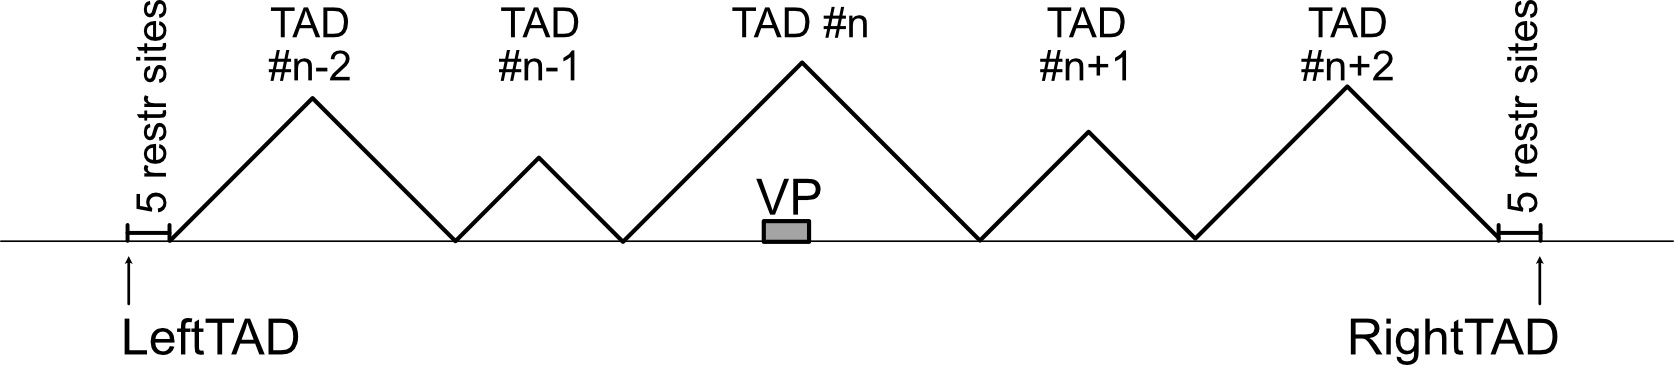
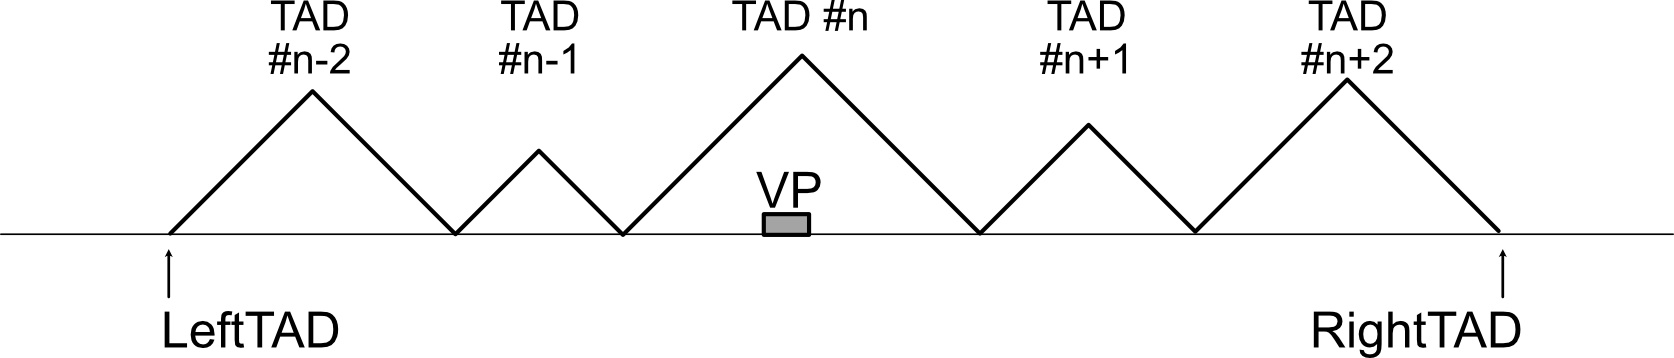
Bin in a folder and more details in readme.md

diff --git a/readme.md b/readme.md
@@ -28,8 +28,13 @@
 
 ## 3- Install
 
-Add all the bins to your PATH.
+### step 1:
+Clone **c4ctus** repository: `git clone https://github.com/NoordermeerLab/c4ctus.git`
 
+Then, add the c4ctus_bin folder to your path
+
+
+### step 2:
 ⚠ **Before using c4ctus, update** the following lines of the listed scripts:⚠
 
 - c4ctus_4C-seq.sh: 
@@ -43,8 +48,12 @@ Add all the bins to your PATH.
 
 ## 4- List of tools (steps)
 
+Calling `c4ctus.sh` displays the following list of tools (with a bit less details)
 
-### a) CREATE 4C-LIB
+Calling a specific `c4ctus_[TOOL].sh` echoes the usage and help.
+
+
+### a) To create the 4C-Library
 ```
   c4ctus_4CLib.sh         --fasta <GenomeFasta>
                           --genome <GenomeNickName>
@@ -57,7 +66,7 @@ Add all the bins to your PATH.
 ```
 
                          
-### b) DEMULTIPLEXING
+### b) To demultiplex the RAW 4C reads and assigned reads to each viewpoint
 ```
   c4ctus_Demult.sh         -f <FastQ> 
                            -p <PrimerFile> 
@@ -68,7 +77,7 @@ Add all the bins to your PATH.
 ```
 
 
-### c) MAPPING
+### c) To map the demultiplexed reads
 
 #### single file
 ```
@@ -85,7 +94,7 @@ Add all the bins to your PATH.
 ```
 
 
-### d) 4C-SEQ
+### d) To convert the mapping densities into 4C-seq scores
 
 #### single file
 ```
@@ -104,7 +113,7 @@ Add all the bins to your PATH.
 ```
 
 
-### e) NORMALIZE 4C-TRACKS
+### e) To Normalize 4C-seq scores
 ```
   c4ctus_Normalize.sh      -f <SQL> --Excl <chrA:pos1-pos2>
                            --LeftTAD <Coordinate>
@@ -113,7 +122,7 @@ Add all the bins to your PATH.
 ```
 
 
-### f) DOMAINOGRAMS
+### f) To compute domainograms and call significant BRICKS from 4C-seq scores
 ```
   c4ctus_Domainogram.sh    -i <SQL_file>
                            [options]
@@ -133,7 +142,7 @@ Add all the bins to your PATH.
 
 As any fasta file, it is composed of a description line (starting with `>`) and followed by a sequence. The sequence information is needed for demultiplexing the reads. The description line contains informations used for the demultiplexing, 4C-seq and Normalization steps.
 
-The sequence contains the first 18 base pairs of the forward primer used for amplification (don't include Illumina adapters).
+The sequence contains the **first 18 base pairs** of the forward primer used for amplification (don't include Illumina adapters).
 
 The description line is composed of the following fields separated by the pipe character `|` without space:
 
@@ -158,12 +167,10 @@ The description line is composed of the following fields separated by the pipe c
 
 ## 5- Long Help (Tutorial) with test dataset
 
-A small fastq file (only 500,000 reads, from 4 viewpoints) can be found in test_dataset/mm10 folder to test the script functionalities. The corresponding primer file `barcode.fa` can be found in the same folder.
+A small fastq file (`mm10_SmallSubset.fastq.gz`, only 500,000 reads, from 4 viewpoints) can be found in test_dataset/mm10 folder to test **c4ctus** functionalities. The corresponding primer file `barcode.fa` can be found in the same folder.
 
 
-### a) To follow this tutorial, download test_dataset, genome sequence and RMSK
-
-Create an empty folder, then:
+### a) To follow this tutorial, create an empty folder containing the test_dataset, mm10 genome sequence and mm10 RMSK
 
 	#Download the test dataset and primer file
 	wget https://github.com/NoordermeerLab/c4ctus/blob/main/test_dataset/mm10/mm10_SmallSubset.fastq.gz
@@ -187,12 +194,16 @@ Follow the steps below. All **c4ctus** instructions be called from the folder th
 
 ### b) Generate 4C-Lib
 
+The 4C libary contains the list of a valid restriction fragments. Valid restriction fragments are defined as restriction fragments for which the agencement of the primary - secondary restriction sites are compatible with 4C-seq reads mapping (more details in [David et al. 2014](https://doi.org/10.1371/journal.pone.0085879) Supplementary file 1). 
+
+The restriction fragments are flagged if the extremities overlap repeats.
+
 	c4ctus_4CLib.sh --fasta mm10.fa \
-                   --genome mm10 \
-                   --PrimaryEnzyme DpnII \
-                   --SecondaryEnzyme NlaIII \
-                   --length 30 
-                   --rmsk rmsk.txt
+                    --genome mm10 \
+                    --PrimaryEnzyme DpnII \
+                    --SecondaryEnzyme NlaIII \
+                    --length 30 
+                    --rmsk rmsk.txt
 
 This generates a `4CLib` folder containing:
 
@@ -205,14 +216,16 @@ This generates a `4CLib` folder containing:
 
 ### c) Demultiplexing Reads
 
+The demultiplexing steps permit to allocate RAW reads to the corresponding viewpoint. This is done by identifying (and trimming (optional)) the 5'-end of each Illumina reads. It relies on [exonerate](https://www.ebi.ac.uk/about/vertebrate-genomics/software/exonerate). Details are also available in [David et al. 2014](https://doi.org/10.1371/journal.pone.0085879) Supplementary file 1. 
+
 	c4ctus_Demult.sh --fastq mm10_SmallSubset.fastq.gz \
-                    --primer barcode.fa \
-                    --group mm10_Prefix
+                     --primer barcode.fa \
+                     --group mm10_Prefix
           
 
-This outputs:
+This outputs a `Demultiplexing` folder containing:
 
-- 4 demultiplexed fastq.gz files
+- 4 demultiplexed fastq.gz files, named as follows: `[GROUP]_[BARCODE-NAME].fastq.gz`
 - a FileList text file
 - a PDF demultiplexing report
 - a debug folder containing informations for debugging, which you can most probably delete.
@@ -227,43 +240,49 @@ This outputs:
 
 ### d) Mapping the reads
 
-There are two ways to map the reads: 
+- Mapping relies on `bowtie2`, with the following parameters:
+	- `-k 20`
+	- `--end-to-end`
+	- `--sensitive`
 
-- option 1: Either the reads coming from each viewpoint are mapped one viewpoint at a time. This requires one instruction per viewpoint.
-- option 2: Either the reads coming from **all** the viewpoints are mapped in a single instruction. Each mapping is single threaded. Up to `<Ncpu>` viewpoints are mapped simultaneously.
+
+- There are two ways to map the reads: 
+
+	- option 1: Either the reads coming from each viewpoint are mapped one viewpoint at a time. This requires one instruction per viewpoint.
+	- option 2: Either the reads coming from **all** the viewpoints are mapped in a single instruction. Each mapping is single threaded. Up to `<Ncpu>` viewpoints are mapped simultaneously.
 
 
 #### option 1
 
 	c4ctus_Mapping.sh --fastq Demultiplexing/mm10_Prefix_Amn.fastq.gz
-	                  --genome mm10
-	                  [--maxhits 5]
+	                   --genome mm10
+	                   [--maxhits 5]
 	                  
 	c4ctus_Mapping.sh --fastq Demultiplexing/mm10_Prefix_Igf2.fastq.gz
-	                  --genome mm10
-	                  [--maxhits 5]         
+	                   --genome mm10
+	                   [--maxhits 5]         
 
 	c4ctus_Mapping.sh --fastq Demultiplexing/mm10_Prefix_Dio3.fastq.gz
-	                  --genome mm10
-	                  [--maxhits 5]  
+	                   --genome mm10
+	                   [--maxhits 5]  
 	                  
 	c4ctus_Mapping.sh --fastq Demultiplexing/mm10_Prefix_Meg3-DMR.fastq.gz
-	                  --genome mm10
-	                  [--maxhits 5]  
+	                   --genome mm10
+	                   [--maxhits 5]  
 
 	                  
 #### option 2
 
 	c4ctus_MultiMapping.sh --primer barcode.fa
-	                       --group mm10_Prefix
-	                       --genome mm10
-	                       [--Ncpu 4]
-	                       [--maxhits 5]
+	                        --group mm10_Prefix
+	                        --genome mm10
+	                        [--Ncpu 4]
+	                        [--maxhits 5]
 
 This will map the all the fastq.gz named as follows: `Demultiplexing/mm10_Prefix_<Viewpoint>.fastq.gz`. Note that `mm10_Prefix` is the argument given as a file prefix in the demultiplexing step.
 
 
-This generates a Mapping folder containing
+This generates a `Mapping` folder containing:
 
 - the `.bam` and `.bai` files for each viewpoint
 - Two density files (fwd and rev) for each viewpoints (use in the following 4C-seq step)
@@ -276,6 +295,8 @@ This generates a Mapping folder containing
 
 ### e) 4C-seq module
 
+The 4C-seq modules count reads mapping at each ends of each valid restriction fragment (see generation of the 4C-Lib). It then assign a single 4C-seq score per valid restriction fragment taking into account if both extremities are compatible with reads mapping and taking into the presence of repearts. Details are available in [David et al. 2014](https://doi.org/10.1371/journal.pone.0085879).
+
 As for the mapping step, there are two ways to compute 4C-seq scores using the mapping densities: 
 
 - option 1: Either the fwd and rev density comming from each viewpoint are processed together, but **one viewpoint at a time**. This requires one instruction per viewpoint.
@@ -286,11 +307,11 @@ As for the mapping step, there are two ways to compute 4C-seq scores using the m
 	
 	#For Amn
 	c4ctus_4Cseq.sh --lib4C 4CLib/Library_mm10_DpnII_NlaIII_30bps_Rmsk_segmentsInfos.bed 
-	                --genome mm10
-	                --densF Mapping/mm10_Prefix_Amn_mm10_Density_fwd.txt
-	                --densR Mapping/mm10_Prefix_Amn_mm10_Density_rev.txt
-	                --Excl chr12:111269231-111274623
-	                --window 11
+	                 --genome mm10
+	                 --densF Mapping/mm10_Prefix_Amn_mm10_Density_fwd.txt
+	                 --densR Mapping/mm10_Prefix_Amn_mm10_Density_rev.txt
+	                 --Excl chr12:111269231-111274623
+	                 --window 11
 
 	#Same for the other viewpoint. 
 	#Don't forget to adapt the Coordinates of the region to exclude for each viewpoint
@@ -298,11 +319,12 @@ As for the mapping step, there are two ways to compute 4C-seq scores using the m
 	
 #### option 2
 	
-	c4ctus_Multi4Cseq.sh 4CLib/Library_mm10_DpnII_NlaIII_30bps_Rmsk_segmentsInfos.bed
-	                     barcode.fa
-	                     mm10_Prefix
-	                     mm10
-	                     4
+	c4ctus_Multi4Cseq.sh --lib4C 4CLib/Library_mm10_DpnII_NlaIII_30bps_Rmsk_segmentsInfos.bed
+	                      --primer barcode.fa
+	                     --group mm10_Prefix
+	                     --genome mm10
+	                     --Ncpu 4
+	                     --window 11
 
 
 This generates a 4Cseq folder containing for each `<Viewpoint>`:
@@ -318,15 +340,17 @@ This generates a 4Cseq folder containing for each `<Viewpoint>`:
 
 ### f) Normalization of 4C-seq bedgraphs
 
+To compare 4C-seq profiles between sample, an internal normalization is needed.
+
 	c4ctus_Normalize.sh --sqlFile segToFrag_mm10_Prefix_Amn_mm10_rep<Number>_all.sql
-	                    --Excl chr12:111269231-111274623
-	                    --window 11
-	                    --LeftTAD 105970000
-	                    --RightTAD 110860000
+	                     --Excl chr12:111269231-111274623
+	                     --window 11
+	                     --LeftTAD 105970000
+	                     --RightTAD 110860000
 	                    
 This generates a file ending with `_<CHR>_smoothed_11FragPerWin_Norm.bedgraph` which correspond to normalized 4C-seq scores that can be compared between samples. This normalization multiplies the 4C-seq scores by an appropriate scaling factor so that  the sum of RAW 4C score in the interval `LeftTAD` - `RightTAD` equals 1 million.
 
-For mammals, we usually define `LeftTAD` and `RightTAD` as the coordinates of the two upstream and two downstream TADs of the viewpoint-containing TAD plus 5 restriction sites upstream and downstream. This is illustrated in the Figure below:
+For mammals, we usually define `LeftTAD` and `RightTAD` as the coordinates of the two upstream and two downstream TADs of the viewpoint-containing TAD. This is illustrated in the Figure below:
 
 | Definition of the coordinates for 4C-seq scores normalization|
 |---|
